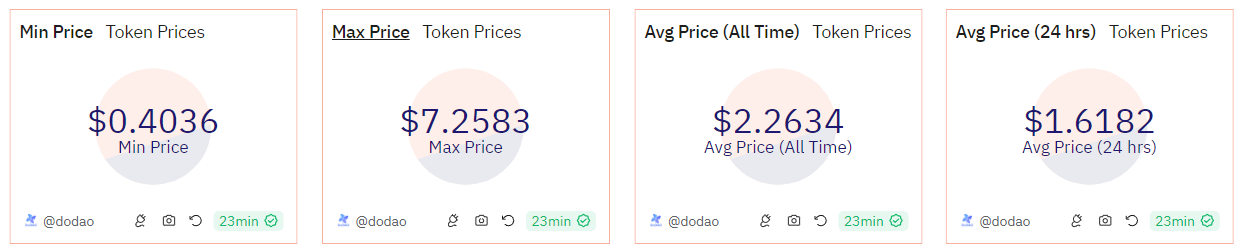
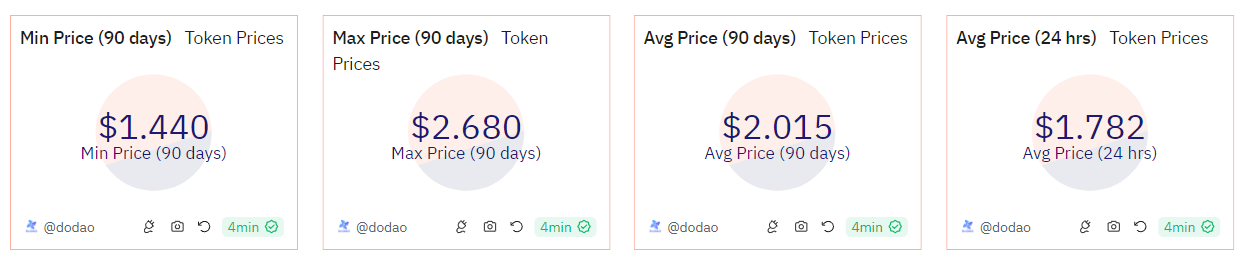
update min, max and avg price in last 90 days

diff --git a/src/compound/asset-analysis/15_token-prices/README.md b/src/compound/asset-analysis/15_token-prices/README.md
@@ -1,6 +1,6 @@
 # About
 
-Here we show various price metrics for the given token on the specified blockchain. The metrics include minimum price, maximum price, average price, and average price over the last 24 hours.
+This query retrieves various price metrics for the given token on the specified blockchain over the last 3 months. The metrics include the minimum price, maximum price, average price over the last 3 months, and average price over the last 24 hours.
 
 # Graph
 
@@ -48,7 +48,7 @@ data_max_price as (
   )
 ```
 
-Minimum price data CTE calculates the minimum price from the data.
+Minimum price data CTE calculates the minimum price from the data for the last 90 days.
 
 ```sql
 min_price_data as (
@@ -56,10 +56,12 @@ min_price_data as (
       min(price) as min_price
     from
       data
+    where
+      minute >= CURRENT_TIMESTAMP - INTERVAL '90' day
   )
 ```
 
-Maximum price data CTE calculates the maximum price from the data_max_price.
+Maximum price data CTE calculates the maximum price from the data_max_price for the last 90 days.
 
 ```sql
 max_price_data as (
@@ -67,17 +69,21 @@ max_price_data as (
       max(price) as max_price
     from
       data_max_price
+    where
+      hour >= CURRENT_TIMESTAMP - INTERVAL '90' day
   )
 ```
 
-Average price data CTE calculates the average price from the data.
+Average price data CTE calculates the average price from the data for the last 90 days.
 
 ```sql
 avg_price_data as (
     select
-      avg(price) as avg_price
+      avg(price) as avg_price_90_days
     from
       data
+    where
+      minute >= CURRENT_TIMESTAMP - INTERVAL '90' day
   )
 ```
 
